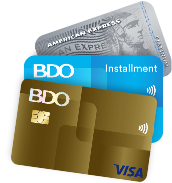
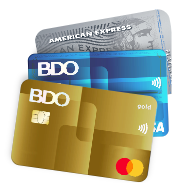
[BDO-468] Image update for 'Deals based on your card' & 'Deals you can enjoy'

diff --git a/apps/bdo/src/app/main/home/primary-catalog/primary-catalog.component.scss b/apps/bdo/src/app/main/home/primary-catalog/primary-catalog.component.scss
@@ -38,10 +38,11 @@
 
     &#credit-card-catalog {
       background-image: url("/assets/images/img-creditcard-mobile.png");
-      background-size: auto;
+      background-size: contain;
 
       @media screen and (min-width: $desktop-width) {
         background-image: url("/assets/images/img-creditcard-desktop.png");
+        background-size: contain;
       }
     }
 
@@ -56,7 +57,7 @@
 
     &#bdo-reward-catalog {
       background-image: url("/assets/images/img-bdorewards-mobile.png");
-      background-size: auto;
+      background-size: contain;
 
       @media screen and (min-width: $desktop-width) {
         background-image: url("/assets/images/img-bdorewards-desktop.png");
